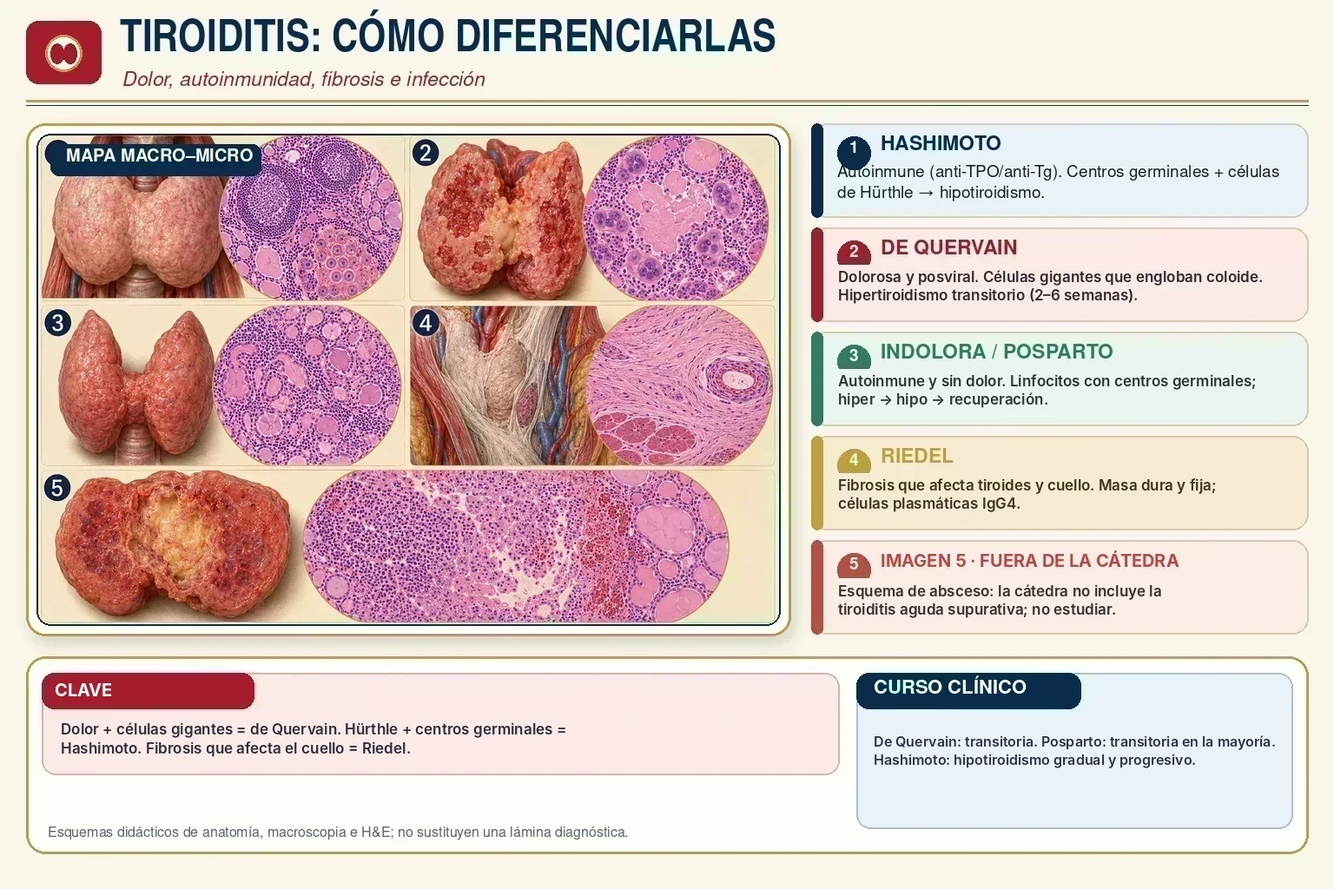
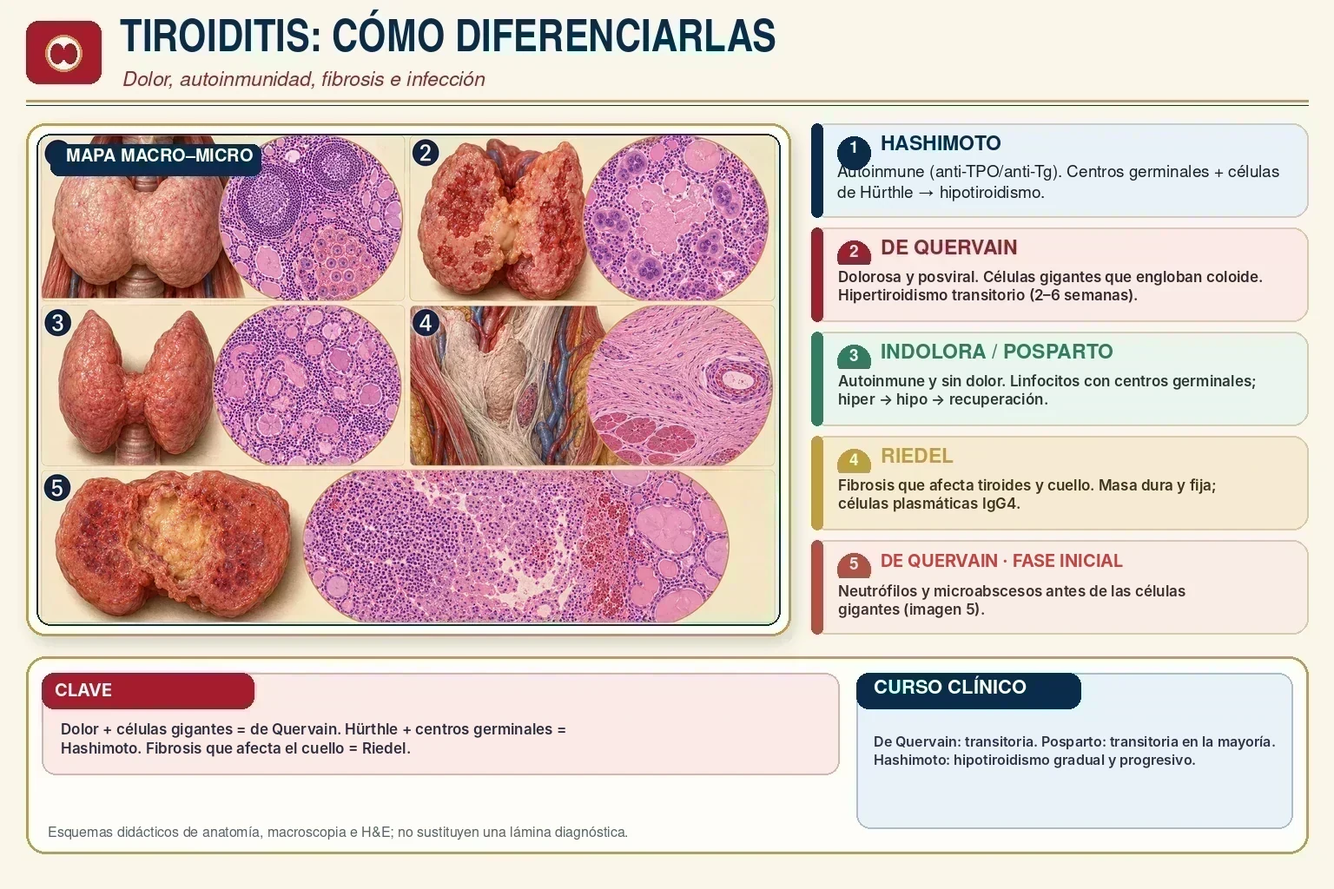
AP II: Crohn passa a ~35–60 % (slide 5 traz os dois números), painel 5 da fig 40 rotulado como fase inicial da De Quervain (sem aviso editorial), nota de imagens neutra; pendências no registro
Claude-Session: https://claude.ai/code/session_01RqPJR6WPBhuhwUpV78sACw

Changed region(s): [[0.625, 0.625, 0.875, 0.7188]]

diff --git a/Repasso-Med-Site--main/Atual - Copia/netlify/functions/materias-privadas/anatomia-patologica-ii.html b/Repasso-Med-Site--main/Atual - Copia/netlify/functions/materias-privadas/anatomia-patologica-ii.html
@@ -2587,12 +2587,12 @@
 <article class="ap2-card coral"><span class="k">POR LA MISMA VÍA</span><b class="t">Fisura, absceso y perforación</b><p>También son típicos la <b>fisura anal</b>, el <b>absceso</b> y la <b>enfermedad perianal</b>; la <b>perforación</b> es posible.</p></article>
 </div>
 <p>Al microscopio, el hallazgo más citado es el <b><span class="ap2-gl" onclick="var o=this.classList.contains('on');document.querySelectorAll('#tab-anato2 .ap2-gl.on').forEach(function(e){e.classList.remove('on')});if(!o)this.classList.add('on')">granuloma<b>?</b><i onclick="event.stopPropagation()">acúmulo organizado de macrófagos activados; «no caseoso» significa que no tiene necrosis en el centro<span class="ap2-gl-close">tocá la palabra para cerrar</span></i></span> no caseoso</b>.</p>
-    <p>Ojo con el número: aparece sólo en el <b>~35%</b> de los casos, así que <b>su ausencia NO descarta Crohn</b>. Se ven además inflamación transmural con agregados linfoides en toda la pared (los «rosarios» linfoides) y fibrosis.</p>
+    <p>Ojo con el número: aparece sólo en el <b>~35–60%</b> de los casos, así que <b>su ausencia NO descarta Crohn</b>. Se ven además inflamación transmural con agregados linfoides en toda la pared (los «rosarios» linfoides) y fibrosis.</p>
 <p>Clínicamente: <b>diarrea intermitente con o sin sangre</b>, dolor abdominal (que <b>empeora después de comer y mejora al evacuar</b>) y <b>pérdida de peso</b>. Cuando el íleon está comprometido se suma <b>malabsorción</b> — esteatorrea y déficit de vitaminas, sobre todo <b>B₁₂</b> y las liposolubles — porque ahí se absorben las sales biliares y el factor intrínseco con la B₁₂.</p>
     <p>Dos datos importantes: el <b>tabaquismo agrava</b> la enfermedad de Crohn, y la <b>resección quirúrgica NO es curativa</b> — la enfermedad recidiva, típicamente en la anastomosis.</p>
 </div>
 <figure class="ap2-fig"><div class="ap2-zoom"><img class="ap2-photo" src="/assets/img/anato2/02-crohn-morfologia-microscopia-complicacoes-rev.webp" alt="Morfología de la enfermedad de Crohn: lesiones salteadas, progresión de úlcera aftosa a úlceras serpiginosas y aspecto en empedrado, inflamación transmural con fístula y estenosis, y granuloma no caseoso en la microscopía." loading="lazy" decoding="async" width="1536" height="1024"></div><p class="ap2-hint">👉 deslizá la figura para leer los rótulos en detalle</p><figcaption><b>Ilustración propia del site — de la úlcera aftosa a la <span class="ap2-gl" onclick="var o=this.classList.contains('on');document.querySelectorAll('#tab-anato2 .ap2-gl.on').forEach(function(e){e.classList.remove('on')});if(!o)this.classList.add('on')">fístula<b>?</b><i onclick="event.stopPropagation()">trayecto anómalo que comunica dos superficies epitelizadas que normalmente no se tocan<span class="ap2-gl-close">tocá la palabra para cerrar</span></i></span> y la estenosis.</b></figcaption></figure><div class="rmc-note"><p>La imagen pone en secuencia visual lo que ya describimos: la progresión de la mucosa, las complicaciones de lo transmural y el granuloma no caseoso.</p></div>
-<aside class="ap2-margin"><b class="t">Error frecuente con el granuloma</b><p>El granuloma no caseoso aparece en <em>~35%</em> de los Crohn.</p><p>Que no aparezca <em>no descarta</em> la enfermedad.</p></aside>
+<aside class="ap2-margin"><b class="t">Error frecuente con el granuloma</b><p>El granuloma no caseoso aparece en <em>~35–60%</em> de los Crohn.</p><p>Que no aparezca <em>no descarta</em> la enfermedad.</p></aside>
 <div class="ap2-detalle">
 <h3>3 · Colitis ulcerosa (rectocolitis ulcerativa)</h3>
 <p>Es la imagen especular del Crohn. Se limita al <b>colon</b> y —dato absoluto— <b>siempre empieza en el recto</b>, extendiéndose hacia proximal de forma <b>CONTINUA</b>, sin dejar tramos sanos.</p>
@@ -2610,7 +2610,7 @@
 <figure class="ap2-fig"><div class="ap2-zoom"><img class="ap2-photo" src="/assets/img/anato2/03-retocolite-morfologia-microscopia-complicacoes.webp" alt="Morfología de la colitis ulcerosa: extensión continua desde el recto, úlceras rasas con seudopólipos, abscesos crípticos en la microscopía y megacolon tóxico como complicación." loading="lazy" decoding="async" width="1536" height="1024"></div><p class="ap2-hint">👉 deslizá la figura para leer los rótulos en detalle</p><figcaption><b>Ilustración propia del site — inflamación continua y superficial.</b> A la izquierda, la <b>distribución</b>: empieza <b>siempre en el recto</b> y se extiende hacia proximal de forma <b>continua</b>. En el centro, la macroscopía con <b>úlceras rasas y seudopólipos</b>.</figcaption></figure><div class="rmc-note"><p>A la derecha, la microscopía limitada a <b>mucosa y submucosa</b>, el <b>absceso críptico</b> (neutrófilos dentro de la cripta) y la <b>dilatación del colon</b> del megacolon tóxico. Fijate en la pared: <b>fina y con serosa preservada</b>, lo contrario del Crohn.</p></div>
 <div class="ap2-detalle">
 <h3>4 · La comparación completa</h3>
-<div class="ap2-scroll"><table><thead><tr><th>Criterio</th><th>Enfermedad de Crohn</th><th>Colitis ulcerosa</th></tr></thead><tbody><tr><th>Localización</th><td>Cualquier segmento (boca a ano); típico <b>íleon terminal</b></td><td><b>Sólo colon</b>; nunca intestino delgado</td></tr><tr><th>Patrón</th><td><b>Salteado</b> (skip lesions)</td><td><b>Continuo</b> desde el recto</td></tr><tr><th>Recto</th><td>Suele estar <b>respetado</b></td><td><b>Siempre afectado</b></td></tr><tr><th>Profundidad</th><td><b>TRANSMURAL</b></td><td><b>Mucosa y submucosa</b> superficial</td></tr><tr><th>Macroscopía</th><td>Úlceras serpiginosas, <b>empedrado</b>, pared engrosada</td><td>Úlceras rasas, <b>seudopólipos</b>, pared fina</td></tr><tr><th>Histología</th><td><b>Granuloma no caseoso</b> (~35%)</td><td><b>Absceso críptico</b>; <b>sin granulomas</b></td></tr><tr><th>Clínica</th><td>Diarrea ± sangre, dolor, pérdida de peso</td><td>Diarrea con <b>sangre y moco</b>, urgencia, tenesmo</td></tr><tr><th>Complicaciones</th><td><b>Fístula, estenosis, absceso, enfermedad perianal</b></td><td><b>Megacolon tóxico</b>, CEP, cáncer colorrectal</td></tr><tr><th>Tabaco</th><td><b>Agrava</b></td><td>Paradójicamente parece protector</td></tr><tr><th>Cirugía</th><td><b>No es curativa</b>: recidiva</td><td><b>Colectomía elimina</b> la enfermedad colónica</td></tr><tr><th>Serología</th><td>ASCA más asociado</td><td><b>p-ANCA</b> más asociado (no confirma)</td></tr></tbody></table></div>
+<div class="ap2-scroll"><table><thead><tr><th>Criterio</th><th>Enfermedad de Crohn</th><th>Colitis ulcerosa</th></tr></thead><tbody><tr><th>Localización</th><td>Cualquier segmento (boca a ano); típico <b>íleon terminal</b></td><td><b>Sólo colon</b>; nunca intestino delgado</td></tr><tr><th>Patrón</th><td><b>Salteado</b> (skip lesions)</td><td><b>Continuo</b> desde el recto</td></tr><tr><th>Recto</th><td>Suele estar <b>respetado</b></td><td><b>Siempre afectado</b></td></tr><tr><th>Profundidad</th><td><b>TRANSMURAL</b></td><td><b>Mucosa y submucosa</b> superficial</td></tr><tr><th>Macroscopía</th><td>Úlceras serpiginosas, <b>empedrado</b>, pared engrosada</td><td>Úlceras rasas, <b>seudopólipos</b>, pared fina</td></tr><tr><th>Histología</th><td><b>Granuloma no caseoso</b> (~35–60%)</td><td><b>Absceso críptico</b>; <b>sin granulomas</b></td></tr><tr><th>Clínica</th><td>Diarrea ± sangre, dolor, pérdida de peso</td><td>Diarrea con <b>sangre y moco</b>, urgencia, tenesmo</td></tr><tr><th>Complicaciones</th><td><b>Fístula, estenosis, absceso, enfermedad perianal</b></td><td><b>Megacolon tóxico</b>, CEP, cáncer colorrectal</td></tr><tr><th>Tabaco</th><td><b>Agrava</b></td><td>Paradójicamente parece protector</td></tr><tr><th>Cirugía</th><td><b>No es curativa</b>: recidiva</td><td><b>Colectomía elimina</b> la enfermedad colónica</td></tr><tr><th>Serología</th><td>ASCA más asociado</td><td><b>p-ANCA</b> más asociado (no confirma)</td></tr></tbody></table></div>
 </div>
 <figure class="ap2-fig"><div class="ap2-zoom"><img class="ap2-photo" src="/assets/img/anato2/04-crohn-vs-retocolite-duelo-diagnostico-rev.webp" alt="Duelo diagnóstico entre enfermedad de Crohn y colitis ulcerosa comparando localización y patrón, pared e histología, clínica y complicaciones quirúrgicas." loading="lazy" decoding="async" width="1536" height="1024"></div><p class="ap2-hint">👉 deslizá la figura para leer los rótulos en detalle</p><figcaption><b>Ilustración propia del site — el duelo diagnóstico.</b> Las dos mitades enfrentan las mismas cuatro filas: <b>local y patrón</b>, <b>pared e histología</b>, <b>clínica</b> y <b>complicación o cirugía</b>.</figcaption></figure><div class="rmc-note"><p>Arriba del todo, lo que <b>comparten</b>: uveítis, artritis y eritema nodoso; y la <b>colangitis esclerosante primaria</b>, que se asocia más a la colitis ulcerosa.</p>
     <p>Leé la figura por filas y vas a ver que cada diferencia sale de las dos preguntas iniciales: hasta dónde llega y hasta qué profundidad.</p></div>
@@ -2690,8 +2690,8 @@
 <text x="16" y="699" class="mmCap" fill="#FFC233">LA IDEA CLAVE</text>
 <text x="16" y="719" class="mmKeyT">Dos preguntas resuelven el bloque: ¿salteada o continua? y ¿transmural o</text>
 <text x="16" y="735" class="mmKeyT">limitada a la mucosa?</text></svg><p class="illustration-caption"><b>Cómo leer este esquema:</b> arriba, el <b>concepto</b> en una frase; a la izquierda las <b>características</b> que definen la entidad; a la derecha las <b>diferencias</b> con lo que se le parece — que es donde más se confunden las entidades; y en la franja oscura, el dato clave.</p></figure>
-<div class="key-box exam"><strong>Las dos confusiones más frecuentes del bloque:</strong> (1) el <b>granuloma no caseoso</b> aparece sólo en el <b>~35%</b> de los Crohn — <b>su ausencia no descarta</b> el diagnóstico; (2) la <b>cirugía</b>: la resección en Crohn <b>no cura</b> (recidiva en la anastomosis), mientras que la <b>colectomía en la colitis ulcerosa sí elimina</b> la enfermedad colónica.</div>
-<div class="ap2-exam"><h4>Bloque 05 · puntos a dominar</h4><p>Casi todo el bloque gira alrededor del par diferencial. Éstos son los ejes, agrupados por prioridad.</p><div class="ap2-freq"><span class="ap2-bar"><i style="width:100%"></i></span><span><b>Crohn vs. colitis ulcerosa</b>: patrón salteado/continuo y profundidad transmural/mucosa — <i>prioridad muy alta</i></span></div><div class="ap2-freq"><span class="ap2-bar"><i style="width:100%"></i></span><span><b>Histología diferencial</b>: granuloma no caseoso (~35%) frente a absceso críptico sin granulomas — <i>prioridad muy alta</i></span></div><div class="ap2-freq"><span class="ap2-bar"><i style="width:70%"></i></span><span><b>Complicaciones de Crohn</b>: fístula, estenosis, absceso y enfermedad perianal — todas derivadas de lo transmural — <i>prioridad alta</i></span></div><div class="ap2-freq"><span class="ap2-bar"><i style="width:70%"></i></span><span><b>Complicaciones de la colitis ulcerosa</b>: megacolon tóxico, colangitis esclerosante primaria y cáncer colorrectal — <i>prioridad alta</i></span></div><div class="ap2-freq"><span class="ap2-bar"><i style="width:45%"></i></span><span><b>Cirugía</b>: la resección en Crohn no cura; la colectomía en colitis ulcerosa sí elimina la enfermedad colónica — <i>prioridad media</i></span></div><div class="ap2-freq"><span class="ap2-bar"><i style="width:45%"></i></span><span><b>Mecanismo y epidemiología</b>: disbiosis, NOD2, tabaquismo y manifestaciones extraintestinales — <i>prioridad media</i></span></div></div>
+<div class="key-box exam"><strong>Las dos confusiones más frecuentes del bloque:</strong> (1) el <b>granuloma no caseoso</b> aparece sólo en el <b>~35–60%</b> de los Crohn — <b>su ausencia no descarta</b> el diagnóstico; (2) la <b>cirugía</b>: la resección en Crohn <b>no cura</b> (recidiva en la anastomosis), mientras que la <b>colectomía en la colitis ulcerosa sí elimina</b> la enfermedad colónica.</div>
+<div class="ap2-exam"><h4>Bloque 05 · puntos a dominar</h4><p>Casi todo el bloque gira alrededor del par diferencial. Éstos son los ejes, agrupados por prioridad.</p><div class="ap2-freq"><span class="ap2-bar"><i style="width:100%"></i></span><span><b>Crohn vs. colitis ulcerosa</b>: patrón salteado/continuo y profundidad transmural/mucosa — <i>prioridad muy alta</i></span></div><div class="ap2-freq"><span class="ap2-bar"><i style="width:100%"></i></span><span><b>Histología diferencial</b>: granuloma no caseoso (~35–60%) frente a absceso críptico sin granulomas — <i>prioridad muy alta</i></span></div><div class="ap2-freq"><span class="ap2-bar"><i style="width:70%"></i></span><span><b>Complicaciones de Crohn</b>: fístula, estenosis, absceso y enfermedad perianal — todas derivadas de lo transmural — <i>prioridad alta</i></span></div><div class="ap2-freq"><span class="ap2-bar"><i style="width:70%"></i></span><span><b>Complicaciones de la colitis ulcerosa</b>: megacolon tóxico, colangitis esclerosante primaria y cáncer colorrectal — <i>prioridad alta</i></span></div><div class="ap2-freq"><span class="ap2-bar"><i style="width:45%"></i></span><span><b>Cirugía</b>: la resección en Crohn no cura; la colectomía en colitis ulcerosa sí elimina la enfermedad colónica — <i>prioridad media</i></span></div><div class="ap2-freq"><span class="ap2-bar"><i style="width:45%"></i></span><span><b>Mecanismo y epidemiología</b>: disbiosis, NOD2, tabaquismo y manifestaciones extraintestinales — <i>prioridad media</i></span></div></div>
 <div class="quiz-section" id="ap2b05q">
 <h3>📝 Preguntas · Bloque 05</h3>
 <div class="quiz-item">
@@ -2737,10 +2737,10 @@
 </div>
 <div class="quiz-item">
 <p class="quiz-question"><span class="quiz-tag oficial">Basada en preguntas de examen</span> En la enfermedad de Crohn, ¿cuál es la frecuencia aproximada del granuloma no caseoso y qué implica su ausencia?</p>
-<ul class="options"><li>a) Aparece en el ~35% de los casos; su ausencia NO descarta el diagnóstico.</li><li>b) Aparece en el 100% de los casos; su ausencia descarta el diagnóstico.</li><li>c) Aparece en menos del 5%; carece de valor diagnóstico.</li><li>d) Aparece en la colitis ulcerosa, no en la enfermedad de Crohn.</li></ul>
+<ul class="options"><li>a) Aparece en el ~35–60% de los casos; su ausencia NO descarta el diagnóstico.</li><li>b) Aparece en el 100% de los casos; su ausencia descarta el diagnóstico.</li><li>c) Aparece en menos del 5%; carece de valor diagnóstico.</li><li>d) Aparece en la colitis ulcerosa, no en la enfermedad de Crohn.</li></ul>
 <button class="reveal-btn" onclick="toggleAnswer(this)">Ver respuesta</button>
 <div class="answer">
-<p><strong>a) Aparece en el ~35% de los casos; su ausencia NO descarta el diagnóstico.</strong></p>
+<p><strong>a) Aparece en el ~35–60% de los casos; su ausencia NO descarta el diagnóstico.</strong></p>
 <p>El granuloma es muy específico pero poco sensible: se encuentra en alrededor de un tercio de las biopsias, por lo que no encontrarlo no excluye Crohn.</p>
 <p>b) es el error clásico: no es un hallazgo constante. c) sí tiene valor diagnóstico cuando aparece. d) la colitis ulcerosa se caracteriza justamente por la AUSENCIA de granulomas.</p>
 </div>
@@ -2850,7 +2850,7 @@
 <div class="flashcard"><div class="fc-front"><b>Crohn — localización y patrón</b></div><div class="fc-back">De la <b>boca al ano</b>; típico <b>íleon terminal</b> e ileocecal. <b>Lesiones salteadas</b>. El <b>recto suele estar respetado</b>.</div></div>
 <div class="flashcard"><div class="fc-front"><b>Crohn — progresión de la mucosa</b></div><div class="fc-back"><b>Úlcera aftosa</b> → úlceras <b>largas y serpiginosas</b> → aspecto en <b>empedrado</b> (cobblestone).</div></div>
 <div class="flashcard"><div class="fc-front"><b>Crohn — profundidad y consecuencias</b></div><div class="fc-back"><b>TRANSMURAL</b>. De ahí: <b>fístula</b> (llega a la serosa) y <b>estenosis</b> (fibrosis concéntrica). También fisura anal, absceso, enfermedad perianal.</div></div>
-<div class="flashcard"><div class="fc-front"><b>Crohn — histología</b></div><div class="fc-back"><b>Granuloma no caseoso</b> en el <b>~35%</b> · inflamación transmural con agregados linfoides · fibrosis. <b>Su ausencia NO descarta Crohn.</b></div></div>
+<div class="flashcard"><div class="fc-front"><b>Crohn — histología</b></div><div class="fc-back"><b>Granuloma no caseoso</b> en el <b>~35–60%</b> · inflamación transmural con agregados linfoides · fibrosis. <b>Su ausencia NO descarta Crohn.</b></div></div>
 <div class="flashcard"><div class="fc-front"><b>Crohn — clínica y cirugía</b></div><div class="fc-back">Diarrea intermitente ± sangre, dolor que <b>empeora al comer</b>, pérdida de peso. <b>Tabaquismo agrava.</b> La <b>resección no cura</b>: recidiva en la anastomosis.</div></div>
 <div class="flashcard"><div class="fc-front"><b>Colitis ulcerosa — localización y patrón</b></div><div class="fc-back"><b>Sólo colon</b>, <b>siempre empieza en el recto</b>, extensión <b>continua</b> hacia proximal. Proctitis → colitis izquierda → <b>pancolitis</b>.</div></div>
 <div class="flashcard"><div class="fc-front"><b>Colitis ulcerosa — profundidad</b></div><div class="fc-back"><b>Mucosa y submucosa</b> superficial. Pared <b>fina</b>, serosa <b>preservada</b>. No fistuliza ni estenosa.</div></div>
@@ -2862,7 +2862,7 @@
 <div class="flashcard"><div class="fc-front"><b>Serología</b></div><div class="fc-back"><b>p-ANCA</b> se asocia más a <b>colitis ulcerosa</b> (no confirma el diagnóstico). <b>ASCA</b> se asocia más a <b>Crohn</b>.</div></div>
 <div class="flashcard"><div class="fc-front"><b>Manifestaciones extraintestinales</b></div><div class="fc-back">Compartidas: <b>uveítis, artritis, eritema nodoso</b>. La <b>colangitis esclerosante primaria</b> se asocia más a la <b>colitis ulcerosa</b>.</div></div>
 <div class="flashcard"><div class="fc-front"><b>Tabaco en la EII</b></div><div class="fc-back"><b>Agrava el Crohn</b>. En la colitis ulcerosa parece, paradójicamente, <b>protector</b>.</div></div>
-<div class="flashcard"><div class="fc-front"><b>⚠ Error frecuente</b></div><div class="fc-back">El <b>granuloma no caseoso</b> NO está siempre (~35%): su ausencia no descarta Crohn. Y no invirtás la cirugía: <b>Crohn recidiva, colectomía en CU sí resuelve</b>.</div></div>
+<div class="flashcard"><div class="fc-front"><b>⚠ Error frecuente</b></div><div class="fc-back">El <b>granuloma no caseoso</b> NO está siempre (~35–60%): su ausencia no descarta Crohn. Y no invirtás la cirugía: <b>Crohn recidiva, colectomía en CU sí resuelve</b>.</div></div>
 </div>
 </section>
 <section class="container" id="ap2b06">
@@ -3562,7 +3562,7 @@
 <p>Son cuatro, y se separan con tres preguntas: <b>¿duele?</b> · <b>¿es autoinmune?</b> · <b>¿hay fibrosis?</b> Respondiéndolas en ese orden, el diagnóstico sale solo.</p>
 <div class="ap2-scroll"><table><thead><tr><th>Tiroiditis</th><th>Mecanismo</th><th>Histología clave</th><th>Evolución</th></tr></thead><tbody><tr><th><b>Hashimoto</b></th><td>Autoinmune: <b>anti-TPO</b> y <b>antitiroglobulina</b></td><td>Infiltrado linfocitario denso con <b>centros germinales</b> + <b>células de Hürthle</b> (citoplasma eosinófilo y granular)</td><td><b>Hipotiroidismo gradual y progresivo</b>. Causa más frecuente de hipotiroidismo donde hay yodo suficiente. Mayor riesgo de <b>linfoma B de zona marginal extraganglionar</b> (tipo MALT)</td></tr><tr><th><b>De Quervain</b> (subaguda)</th><td><b>Posviral</b>. Es la <b>DOLOROSA</b></td><td><b>Folículos dañados y colapsados</b>, con <b>células gigantes multinucleadas</b> que engloban coloide, entre linfocitos, macrófagos y células plasmáticas</td><td><b>Hipertiroidismo transitorio</b> que remite en 2–6 semanas sin tratamiento. <b>Autolimitada</b>; es la causa más frecuente de dolor tiroideo</td></tr><tr><th><b>Indolora / posparto</b></th><td>Autoinmune, pero <b>sin dolor</b></td><td><b>Linfocitos</b> con centros germinales; la fibrosis y las células de Hürthle no son prominentes</td><td>Hipertiroidismo leve; algunos pasan a hipotiroidismo antes de recuperarse y hasta 1/3 queda con hipotiroidismo establecido</td></tr><tr><th><b>Riedel</b></th><td>Fibrosante; relación con enfermedades por <b>IgG4</b></td><td><b>Fibrosis densa extracapsular</b> que no respeta los límites de la glándula y envuelve las estructuras del cuello</td><td>Masa tiroidea <b>dura y fija</b> → <b>simula un carcinoma</b></td></tr></tbody></table></div>
 </div>
-<figure class="ap2-fig"><div class="ap2-zoom"><img class="ap2-photo" src="/assets/img/anato2/02-tiroiditis-como-diferenciar-infografia-teorica-rev.webp" alt="Comparación de las tiroiditis con macroscopía e histología: Hashimoto autoinmune con células de Hürthle, De Quervain dolorosa con células gigantes, indolora o posparto, Riedel con fibrosis que afecta el cuello; la imagen 5 (absceso) no forma parte de la cátedra." loading="lazy" decoding="async" width="1536" height="1024"></div><p class="ap2-hint">👉 deslizá la figura para leer los rótulos en detalle</p><figcaption><b>Ilustración propia del site — dolor, autoinmunidad, fibrosis e infección.</b> ① <b>Hashimoto</b>: anti-TPO/anti-Tg, centros germinales y <b>células de Hürthle</b> → hipotiroidismo. ② <b>De Quervain</b>: dolorosa y posviral, folículos rotos con <b>granulomas y células gigantes</b>, evolución trifásica.</figcaption></figure><div class="rmc-note"><p>③ <b>indolora/posparto</b>: linfocitos sin granulomas. ④ <b>Riedel</b>: <b>fibrosis extracapsular</b> que envuelve el cuello, tiroides pétrea, posible relación con IgG4. ⑤ <b>aguda supurativa</b>: infección bacteriana con neutrófilos y absceso. La clave: <b>dolor + granulomas = De Quervain · Hürthle + centros germinales = Hashimoto · fibrosis extracapsular = Riedel</b>.</p></div>
+<figure class="ap2-fig"><div class="ap2-zoom"><img class="ap2-photo" src="/assets/img/anato2/02-tiroiditis-como-diferenciar-infografia-teorica-rev.webp" alt="Comparación de las tiroiditis con macroscopía e histología: Hashimoto autoinmune con células de Hürthle, De Quervain dolorosa con células gigantes, indolora o posparto, Riedel con fibrosis que afecta el cuello; la imagen 5 muestra la fase inicial de De Quervain (neutrófilos y microabscesos)." loading="lazy" decoding="async" width="1536" height="1024"></div><p class="ap2-hint">👉 deslizá la figura para leer los rótulos en detalle</p><figcaption><b>Ilustración propia del site — dolor, autoinmunidad, fibrosis e infección.</b> ① <b>Hashimoto</b>: anti-TPO/anti-Tg, centros germinales y <b>células de Hürthle</b> → hipotiroidismo. ② <b>De Quervain</b>: dolorosa y posviral, folículos rotos con <b>granulomas y células gigantes</b>, evolución trifásica.</figcaption></figure><div class="rmc-note"><p>③ <b>indolora/posparto</b>: linfocitos sin granulomas. ④ <b>Riedel</b>: <b>fibrosis extracapsular</b> que envuelve el cuello, tiroides pétrea, posible relación con IgG4. ⑤ <b>aguda supurativa</b>: infección bacteriana con neutrófilos y absceso. La clave: <b>dolor + granulomas = De Quervain · Hürthle + centros germinales = Hashimoto · fibrosis extracapsular = Riedel</b>.</p></div>
 <div class="ap2-detalle">
 <h3>3 · Adenoma folicular frente a carcinoma folicular</h3>
 <p>Este apartado es el corazón conceptual del bloque, porque enseña algo contraintuitivo: <b>dos lesiones pueden ser idénticas por dentro y una ser benigna y la otra maligna</b>.</p>
@@ -4959,10 +4959,10 @@
 </div>
 <div class="quiz-item">
 <p class="quiz-question"><span class="quiz-tag oficial">Basada en preguntas de examen</span> En la enfermedad de Crohn, ¿cuál es la frecuencia aproximada del granuloma no caseoso y qué implica su ausencia?</p>
-<ul class="options"><li>a) Aparece en el ~35% de los casos; su ausencia NO descarta el diagnóstico.</li><li>b) Aparece en el 100% de los casos; su ausencia descarta el diagnóstico.</li><li>c) Aparece en menos del 5%; carece de valor diagnóstico.</li><li>d) Aparece en la colitis ulcerosa, no en la enfermedad de Crohn.</li></ul>
+<ul class="options"><li>a) Aparece en el ~35–60% de los casos; su ausencia NO descarta el diagnóstico.</li><li>b) Aparece en el 100% de los casos; su ausencia descarta el diagnóstico.</li><li>c) Aparece en menos del 5%; carece de valor diagnóstico.</li><li>d) Aparece en la colitis ulcerosa, no en la enfermedad de Crohn.</li></ul>
 <button class="reveal-btn" onclick="toggleAnswer(this)">Ver respuesta</button>
 <div class="answer">
-<p><strong>a) Aparece en el ~35% de los casos; su ausencia NO descarta el diagnóstico.</strong></p>
+<p><strong>a) Aparece en el ~35–60% de los casos; su ausencia NO descarta el diagnóstico.</strong></p>
 <p>El granuloma es muy específico pero poco sensible: se encuentra en alrededor de un tercio de las biopsias, por lo que no encontrarlo no excluye Crohn.</p>
 <p>b) es el error clásico: no es un hallazgo constante. c) sí tiene valor diagnóstico cuando aparece. d) la colitis ulcerosa se caracteriza justamente por la AUSENCIA de granulomas.</p>
 </div>
@@ -5636,7 +5636,7 @@
 <div class="flashcard"><div class="fc-front"><b>Crohn — localización y patrón</b></div><div class="fc-back">De la <b>boca al ano</b>; típico <b>íleon terminal</b> e ileocecal. <b>Lesiones salteadas</b>. El <b>recto suele estar respetado</b>.</div></div>
 <div class="flashcard"><div class="fc-front"><b>Crohn — progresión de la mucosa</b></div><div class="fc-back"><b>Úlcera aftosa</b> → úlceras <b>largas y serpiginosas</b> → aspecto en <b>empedrado</b> (cobblestone).</div></div>
 <div class="flashcard"><div class="fc-front"><b>Crohn — profundidad y consecuencias</b></div><div class="fc-back"><b>TRANSMURAL</b>. De ahí: <b>fístula</b> (llega a la serosa) y <b>estenosis</b> (fibrosis concéntrica). También fisura anal, absceso, enfermedad perianal.</div></div>
-<div class="flashcard"><div class="fc-front"><b>Crohn — histología</b></div><div class="fc-back"><b>Granuloma no caseoso</b> en el <b>~35%</b> · inflamación transmural con agregados linfoides · fibrosis. <b>Su ausencia NO descarta Crohn.</b></div></div>
+<div class="flashcard"><div class="fc-front"><b>Crohn — histología</b></div><div class="fc-back"><b>Granuloma no caseoso</b> en el <b>~35–60%</b> · inflamación transmural con agregados linfoides · fibrosis. <b>Su ausencia NO descarta Crohn.</b></div></div>
 <div class="flashcard"><div class="fc-front"><b>Crohn — clínica y cirugía</b></div><div class="fc-back">Diarrea intermitente ± sangre, dolor que <b>empeora al comer</b>, pérdida de peso. <b>Tabaquismo agrava.</b> La <b>resección no cura</b>: recidiva en la anastomosis.</div></div>
 <div class="flashcard"><div class="fc-front"><b>Colitis ulcerosa — localización y patrón</b></div><div class="fc-back"><b>Sólo colon</b>, <b>siempre empieza en el recto</b>, extensión <b>continua</b> hacia proximal. Proctitis → colitis izquierda → <b>pancolitis</b>.</div></div>
 <div class="flashcard"><div class="fc-front"><b>Colitis ulcerosa — profundidad</b></div><div class="fc-back"><b>Mucosa y submucosa</b> superficial. Pared <b>fina</b>, serosa <b>preservada</b>. No fistuliza ni estenosa.</div></div>
@@ -5648,7 +5648,7 @@
 <div class="flashcard"><div class="fc-front"><b>Serología</b></div><div class="fc-back"><b>p-ANCA</b> se asocia más a <b>colitis ulcerosa</b> (no confirma el diagnóstico). <b>ASCA</b> se asocia más a <b>Crohn</b>.</div></div>
 <div class="flashcard"><div class="fc-front"><b>Manifestaciones extraintestinales</b></div><div class="fc-back">Compartidas: <b>uveítis, artritis, eritema nodoso</b>. La <b>colangitis esclerosante primaria</b> se asocia más a la <b>colitis ulcerosa</b>.</div></div>
 <div class="flashcard"><div class="fc-front"><b>Tabaco en la EII</b></div><div class="fc-back"><b>Agrava el Crohn</b>. En la colitis ulcerosa parece, paradójicamente, <b>protector</b>.</div></div>
-<div class="flashcard"><div class="fc-front"><b>⚠ Error frecuente</b></div><div class="fc-back">El <b>granuloma no caseoso</b> NO está siempre (~35%): su ausencia no descarta Crohn. Y no invirtás la cirugía: <b>Crohn recidiva, colectomía en CU sí resuelve</b>.</div></div>
+<div class="flashcard"><div class="fc-front"><b>⚠ Error frecuente</b></div><div class="fc-back">El <b>granuloma no caseoso</b> NO está siempre (~35–60%): su ausencia no descarta Crohn. Y no invirtás la cirugía: <b>Crohn recidiva, colectomía en CU sí resuelve</b>.</div></div>
 <div class="flashcard"><div class="fc-front"><b>¿Qué es un pólipo?</b></div><div class="fc-back">Cualquier lesión que <b>protruye hacia la luz</b>. Describe una <b>forma</b>, no un diagnóstico. La pregunta clave: ¿tiene <b>displasia</b>?</div></div>
 <div class="flashcard"><div class="fc-front"><b>Pólipo hiperplásico</b></div><div class="fc-back">El <b>más frecuente</b>. &lt;5 mm, liso, <b>colon izquierdo</b>. Serración <b>sólo en el tercio superior</b> de la cripta. Células maduras, sin displasia. <b>Riesgo insignificante</b>.</div></div>
 <div class="flashcard"><div class="fc-front"><b>Pólipo inflamatorio</b></div><div class="fc-back">= <b>seudopólipo</b>: isla de mucosa regenerativa entre úlceras. En EII y en el <b>síndrome de la úlcera rectal solitaria</b> (fallo de relajación del esfínter anorrectal). No neoplásico.</div></div>
@@ -5800,7 +5800,7 @@
 <div class="flashcard"><div class="fc-front"><b>Crohn — localización y patrón</b></div><div class="fc-back">De la <b>boca al ano</b>; típico <b>íleon terminal</b> e ileocecal. <b>Lesiones salteadas</b>. El <b>recto suele estar respetado</b>.</div></div>
 <div class="flashcard"><div class="fc-front"><b>Crohn — progresión de la mucosa</b></div><div class="fc-back"><b>Úlcera aftosa</b> → úlceras <b>largas y serpiginosas</b> → aspecto en <b>empedrado</b> (cobblestone).</div></div>
 <div class="flashcard"><div class="fc-front"><b>Crohn — profundidad y consecuencias</b></div><div class="fc-back"><b>TRANSMURAL</b>. De ahí: <b>fístula</b> (llega a la serosa) y <b>estenosis</b> (fibrosis concéntrica). También fisura anal, absceso, enfermedad perianal.</div></div>
-<div class="flashcard"><div class="fc-front"><b>Crohn — histología</b></div><div class="fc-back"><b>Granuloma no caseoso</b> en el <b>~35%</b> · inflamación transmural con agregados linfoides · fibrosis. <b>Su ausencia NO descarta Crohn.</b></div></div>
+<div class="flashcard"><div class="fc-front"><b>Crohn — histología</b></div><div class="fc-back"><b>Granuloma no caseoso</b> en el <b>~35–60%</b> · inflamación transmural con agregados linfoides · fibrosis. <b>Su ausencia NO descarta Crohn.</b></div></div>
 <div class="flashcard"><div class="fc-front"><b>Crohn — clínica y cirugía</b></div><div class="fc-back">Diarrea intermitente ± sangre, dolor que <b>empeora al comer</b>, pérdida de peso. <b>Tabaquismo agrava.</b> La <b>resección no cura</b>: recidiva en la anastomosis.</div></div>
 <div class="flashcard"><div class="fc-front"><b>Colitis ulcerosa — localización y patrón</b></div><div class="fc-back"><b>Sólo colon</b>, <b>siempre empieza en el recto</b>, extensión <b>continua</b> hacia proximal. Proctitis → colitis izquierda → <b>pancolitis</b>.</div></div>
 <div class="flashcard"><div class="fc-front"><b>Colitis ulcerosa — profundidad</b></div><div class="fc-back"><b>Mucosa y submucosa</b> superficial. Pared <b>fina</b>, serosa <b>preservada</b>. No fistuliza ni estenosa.</div></div>
@@ -5812,7 +5812,7 @@
 <div class="flashcard"><div class="fc-front"><b>Serología</b></div><div class="fc-back"><b>p-ANCA</b> se asocia más a <b>colitis ulcerosa</b> (no confirma el diagnóstico). <b>ASCA</b> se asocia más a <b>Crohn</b>.</div></div>
 <div class="flashcard"><div class="fc-front"><b>Manifestaciones extraintestinales</b></div><div class="fc-back">Compartidas: <b>uveítis, artritis, eritema nodoso</b>. La <b>colangitis esclerosante primaria</b> se asocia más a la <b>colitis ulcerosa</b>.</div></div>
 <div class="flashcard"><div class="fc-front"><b>Tabaco en la EII</b></div><div class="fc-back"><b>Agrava el Crohn</b>. En la colitis ulcerosa parece, paradójicamente, <b>protector</b>.</div></div>
-<div class="flashcard"><div class="fc-front"><b>⚠ Error frecuente</b></div><div class="fc-back">El <b>granuloma no caseoso</b> NO está siempre (~35%): su ausencia no descarta Crohn. Y no invirtás la cirugía: <b>Crohn recidiva, colectomía en CU sí resuelve</b>.</div></div>
+<div class="flashcard"><div class="fc-front"><b>⚠ Error frecuente</b></div><div class="fc-back">El <b>granuloma no caseoso</b> NO está siempre (~35–60%): su ausencia no descarta Crohn. Y no invirtás la cirugía: <b>Crohn recidiva, colectomía en CU sí resuelve</b>.</div></div>
 <div class="flashcard"><div class="fc-front"><b>¿Qué es un pólipo?</b></div><div class="fc-back">Cualquier lesión que <b>protruye hacia la luz</b>. Describe una <b>forma</b>, no un diagnóstico. La pregunta clave: ¿tiene <b>displasia</b>?</div></div>
 <div class="flashcard"><div class="fc-front"><b>Pólipo hiperplásico</b></div><div class="fc-back">El <b>más frecuente</b>. &lt;5 mm, liso, <b>colon izquierdo</b>. Serración <b>sólo en el tercio superior</b> de la cripta. Células maduras, sin displasia. <b>Riesgo insignificante</b>.</div></div>
 <div class="flashcard"><div class="fc-front"><b>Pólipo inflamatorio</b></div><div class="fc-back">= <b>seudopólipo</b>: isla de mucosa regenerativa entre úlceras. En EII y en el <b>síndrome de la úlcera rectal solitaria</b> (fallo de relajación del esfínter anorrectal). No neoplásico.</div></div>
@@ -5889,7 +5889,7 @@
 <li><i>Atlas de Anatomía Patológica</i> Robbins &amp; Cotran, cap. 7.</li>
 <li>Clases de la cátedra de Anatomía Patológica II · 6.º semestre.</li>
 </ul></div>
-<div class="ap2-note"><b>Sobre las imágenes.</b> Las ilustraciones y los esquemas en SVG de esta materia son <b>producción propia de Repasso Med</b>, hechos a partir del contenido de las clases; no se reproducen micrografías ni figuras de atlas con derechos de autor (Robbins, Ross &amp; Pawlina, Junqueira). Cada ilustración fue revisada contra los slides de la cátedra: lo que los slides no sostienen se corrigió o se marca como complemento. Algunas ilustraciones conservan rótulos en portugués. Si detectás un error en alguna figura, escribinos a <b>repasso.med@gmail.com</b> y la corregimos.</div>
+<div class="ap2-note"><b>Sobre las imágenes.</b> Las ilustraciones y los esquemas en SVG de esta materia son <b>producción propia de Repasso Med</b>, hechos a partir del contenido de las clases; no se reproducen micrografías ni figuras de atlas con derechos de autor (Robbins, Ross &amp; Pawlina, Junqueira). Algunas ilustraciones conservan rótulos en portugués. Si detectás un error en alguna figura, escribinos a <b>repasso.med@gmail.com</b> y la corregimos.</div>
 </section>
 <section class="container" id="ap2intro">
 <div class="ap2-note"><b>Tus subrayados de la introducción anterior.</b> Esta materia ya no tiene introducción: empieza en la primera clase. Si habías subrayado algo en esa introducción, el fragmento se conserva aquí, tal como estaba, para que tu marca siga visible. (La caja que el texto llama «dónde concentrar el estudio» hoy se titula «Puntos a dominar».)</div>

diff --git a/coordination/source-packs/anatomia-patologica-ii-revisao-integral-2026-10-v1.md b/coordination/source-packs/anatomia-patologica-ii-revisao-integral-2026-10-v1.md
@@ -100,3 +100,7 @@
 - Cada uma das 43 imagens finais foi aberta em ~1400 px de largura. Cinco retoques saíram dessa leitura: fig 02 («afta menor: 7–14 días sin cicatriz» no rodapé → «la mayoría se resuelve sola en 7–10 días»), fig 09 («polo inferior» de Warthin na tabela → «zona superficial»), fig 28 («reto pode poupar», sem lastro, → «íleo terminal»), fig 29 (linha duplicada na via serrilhada) e fig 34 (rótulo «Confirmação» repetido). Os 36 arquivos `-rev` continuam os mesmos nomes.
 - Texto: 111 «⚠ Trampa clásica:» → «⚠ Error frecuente:» (nenhum estava sob grifo: consulta SELECT por exact_text, prefix e suffix); mais 6 frases sem grifo (b02 «se pregunta tal cual», b05 «Trampa del granuloma», b06 «la trampa», b01 «La trampa que más cae», «el examen lo usa», 2 cópias de «en el examen»).
 - **Frases de voz de prova que continuam porque estão sob grifo ou ao lado de grifo** (7 marcas pelo texto + vizinhança por prefixo/sufixo): b01 («el examen busca el error», «Lo que se evalúa en la biopsia», «Las tres que se preguntan», «el examen pide como «citá dos»», «El examen adora el par…», «se pregunta siempre», «es lo que se pregunta», «las preguntas»), b03 («La regla de examen está en la última columna», «se pregunta tal cual», «El examen cuenta con que las confundas», «La trampa:») e a abertura arquivada `ap2intro`. Só mudam com plano de migração de grifos (decisão do José).
+
+## Resolução do granuloma do Crohn e da fig 40 (2026-10-22)
+- **Granuloma não caseoso do Crohn:** o slide 5 («Clase 5 – Patologías del intestino») traz **40–60 %** no texto das lâminas e **~35 %** na tabela comparativa do mesmo arquivo. Para não escolher um dos dois, a página passou a dizer **~35–60 %** (texto, tabela, questão, cartões e figs 26 e 28). A ausência de granuloma não descarta Crohn (dito no slide). Sem Robbins legível não dá para estreitar mais; **pendência de José/docente: qual número a cátedra cobra** (registrada aqui, não na página do aluno).
+- **Fig 40, painel 5:** a indicação editorial «IMAGEN 5 · FUERA DE LA CÁTEDRA» saiu da página. O painel mostra abscesso com neutrófilos; a Clase 8 (sl. 9) descreve **neutrófilos e microabscessos na fase inicial da De Quervain**, e o painel agora é rotulado assim. A tiroidite aguda supurativa continua fora do texto (não consta no slide 4 da Clase 8). **Pendência registrada aqui:** a macro do painel 2 é mais vermelha que o «blanco-amarillento» do slide 9; é limitação de arte.
